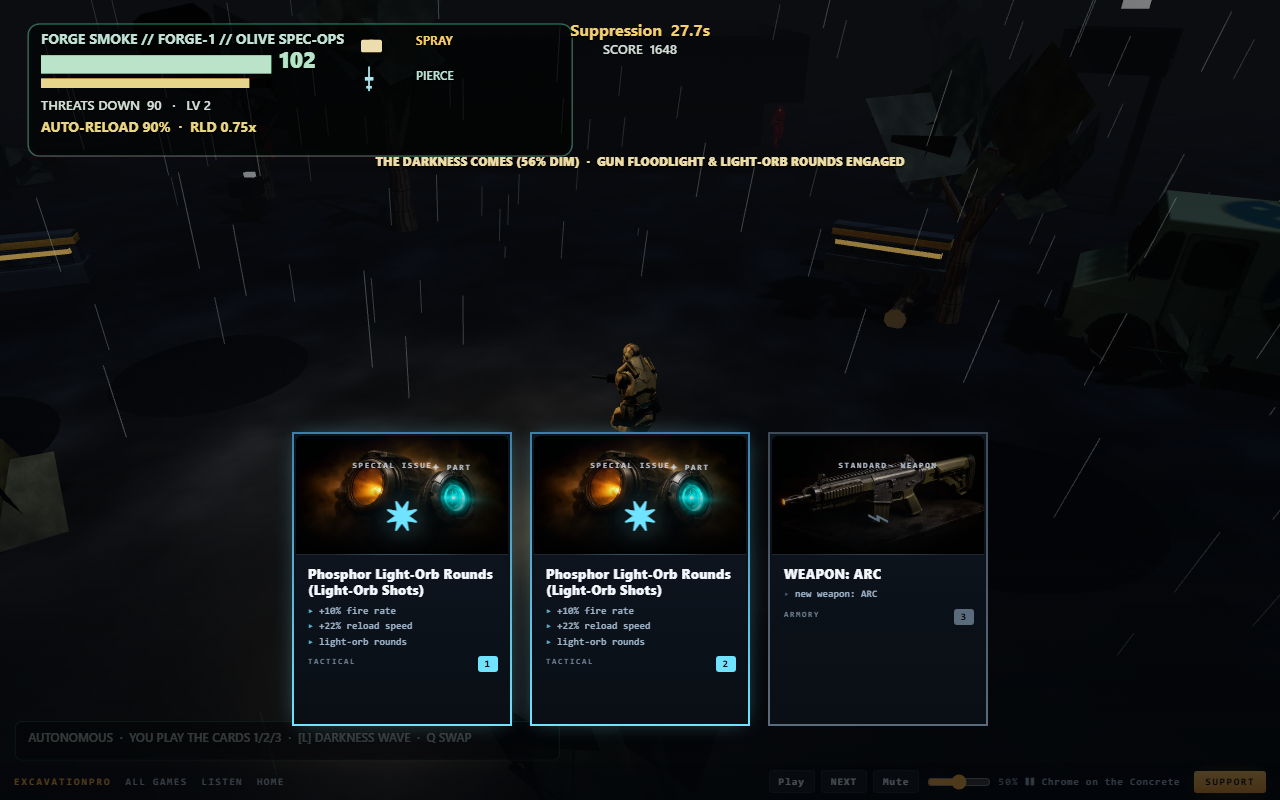
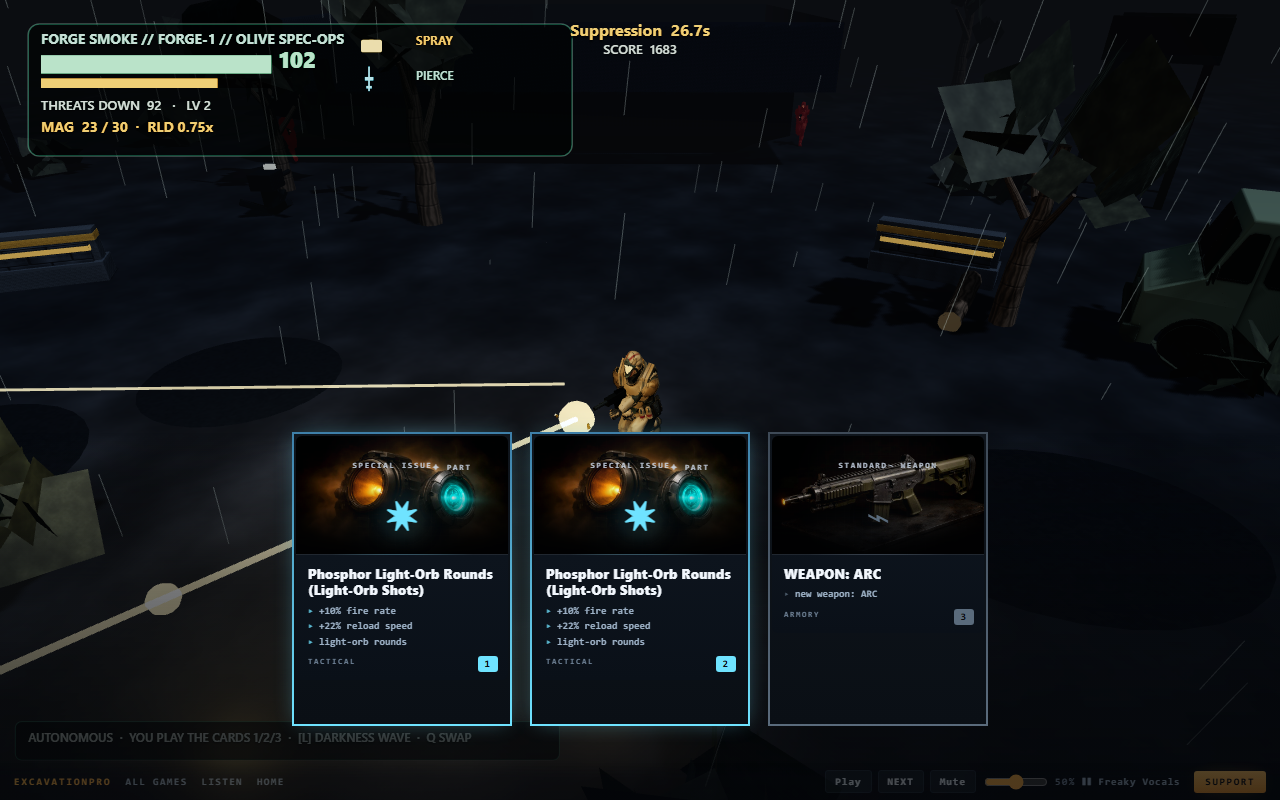
MOV-02: enemy slot fanning + 2.2m separation; shieldbearer owns the front slot (verified -0.04 rad, screenshot). Pilot aims body at target instead of strafe so facing is stable. Gate green.

diff --git a/src/enemies.js b/src/enemies.js
@@ -25,6 +25,18 @@ export const ENEMY_TYPES = {
   gunship: "gunship",
 };
 
+/** MOV-02 slot bias: 0 is the front slot (where the player's gun points), PI is the rear. */
+const SLOT_BIAS = {
+  shieldbearer: 0,
+  rifleman: (Math.PI * 2) / 3,
+  spotter: Math.PI / 2,
+  sapper: Math.PI,
+  mortar: -Math.PI / 2,
+  mech: 0.35,
+  drone: 0,
+  gunship: 0,
+};
+
 export class Enemy {
   constructor(type, position, rng, timeMinutes = 0) {
     this.type = type;
@@ -372,6 +384,8 @@ export class EnemyManager {
     };
     resolveObstacleCollision(position, 0.85, arenaColliders);
     const enemy = new Enemy(type, position, this.rng, timeMinutes);
+    enemy.slot = this.slotSeq || 0;
+    this.slotSeq = ((this.slotSeq || 0) + 1) % 8;
     this.enemies.push(enemy);
     // Create role-specific 3D model & skin so each enemy class reads at 32px+
     const mat = this.materials?.enemyMat;
@@ -397,7 +411,7 @@ export class EnemyManager {
   }
 
   /** Update all enemies. Returns array of actions. */
-  update(dt, playerPos, timeMinutes) {
+  update(dt, playerPos, timeMinutes, playerYaw = 0) {
     this.timeMinutes = timeMinutes;
     this.spawnTimer -= dt;
     const actions = [];
@@ -410,10 +424,71 @@ export class EnemyManager {
       // Update position with obstacle pathfinding / steering + solid collider pushback
       const isAerial = enemy.type === "drone" || enemy.type === "gunship";
       if (!isAerial) {
-        const vx = enemy.velocity.x;
-        const vz = enemy.velocity.z;
-        const spd = Math.hypot(vx, vz);
+        let vx = enemy.velocity.x;
+        let vz = enemy.velocity.z;
+        let spd = Math.hypot(vx, vz);
+        const dToPlayer = Math.hypot(enemy.position.x - playerPos.x, enemy.position.z - playerPos.z) || 1;
+        // a body that has reached its standoff can have zero velocity; the slot ring still needs to
+        // pull it round to its angle, so give the fan a floor speed to work with
+        const inRing = this.enemies.length > 1 && dToPlayer < 5;
+        if (inRing && spd < 0.4) {
+          spd = Math.max(0.8, Number(enemy.speed) || 1.2);
+          vx = 0;
+          vz = 0;
+        }
+        // the shield repositions at a trot: the front slot moves with the player's facing, and a
+        // shield that walks at 1.1 m/s can never catch a turning target
+        if (inRing && enemy.type === "shieldbearer") spd = Math.max(spd, 2.8);
+
+        // MOV-02: slot fanning + separation. The shield takes the front slot, riflemen the flanks,
+        // sappers the rear, so the crowd spreads around the player instead of stacking on one line.
+        if (spd > 0.01) {
+          if (enemy.type === "shieldbearer" && inRing) {
+            // the shield OWNS the front slot: it walks to the point in front of the player's gun
+            const ang = (Number(playerYaw) || 0);
+            const sx = playerPos.x + Math.sin(ang) * 1.9 - enemy.position.x;
+            const sz = playerPos.z + Math.cos(ang) * 1.9 - enemy.position.z;
+            const sl = Math.hypot(sx, sz) || 1;
+            vx = (sx / sl) * spd;
+            vz = (sz / sl) * spd;
+          } else if (inRing) {
+            const bias = SLOT_BIAS[enemy.type] ?? 0;
+            const spread = ((enemy.slot % 3) - 1) * 0.45;
+            const ang = (Number(playerYaw) || 0) + bias + spread;
+            const tX = playerPos.x + Math.sin(ang) * 2.3;
+            const tZ = playerPos.z + Math.cos(ang) * 2.3;
+            const sx = tX - enemy.position.x;
+            const sz = tZ - enemy.position.z;
+            const sl = Math.hypot(sx, sz) || 1;
+            vx = vx * 0.55 + (sx / sl) * spd * 0.45;
+            vz = vz * 0.55 + (sz / sl) * spd * 0.45;
+          }
+          // bodies inside 2.2 m push each other apart
+          let px = 0;
+          let pz = 0;
+          for (const other of this.enemies) {
+            if (other === enemy || other.hp <= 0) continue;
+            const ox = enemy.position.x - other.position.x;
+            const oz = enemy.position.z - other.position.z;
+            const od = Math.hypot(ox, oz);
+            if (od > 0.001 && od < 2.2) {
+              const w = (2.2 - od) / 2.2;
+              px += (ox / od) * w;
+              pz += (oz / od) * w;
+            }
+          }
+          if (px !== 0 || pz !== 0) {
+            const pl = Math.hypot(px, pz) || 1;
+            vx += (px / pl) * spd * 0.7;
+            vz += (pz / pl) * spd * 0.7;
+          }
+          const nl = Math.hypot(vx, vz) || 1;
+          vx = (vx / nl) * spd;
+          vz = (vz / nl) * spd;
+        }
+
         const colRadius = enemy.type === "mech" ? 1.05 : enemy.type === "shieldbearer" ? 0.75 : 0.55;
+        enemy._move = { x: vx, z: vz, spd };
         if (spd > 0.01) {
           const steered = steerAroundObstacles(enemy.position, vx / spd, vz / spd, colRadius, arenaColliders);
           enemy.position.x += steered.x * spd * dt;

diff --git a/src/main.js b/src/main.js
@@ -18,11 +18,11 @@ import { WeaponManager, CardSystem, Weapon, STYLE_VFX, GRENADE_STYLES } from "./
 import { createCardTray } from "./cardsui.js?v=20261030n";
 import { createSummary } from "./summaryui.js?v=20261030n";
 import { createBarks } from "./barks.js?v=20261030m";
-import { EnemyManager, ENEMY_TYPES } from "./enemies.js?v=20261030m";
+import { EnemyManager, ENEMY_TYPES } from "./enemies.js?v=20261030s";
 import { BeatDirector, ScoreSystem, ResultsScreen } from "./director.js?v=20261030n";
 import { bossHp } from "./balance.js?v=20261030n";
 import { loadSave, saveSave, updateBestScore, updateBestTime, getSettings, updateSettings, DEFAULT_SAVE, addProfileXp, grantLegacy, saveProfile } from "./save.js?v=20261030m";
-import { pilot } from "./autopilot.js?v=20261030q";
+import { pilot } from "./autopilot.js?v=20261030r";
 import { createManager, statsForLevel, applyStatsToRun, LIGHT_MODS, PERKS } from "./manager.js?v=20261030m";
 import { createStartMenu } from "./startmenu.js?v=20261030m";
 import { createGamepad } from "./gamepad.js?v=20261030m";
@@ -589,6 +589,22 @@ if (testMode) {
       };
     },
     getEnemyTypes: () => Object.keys(ENEMY_TYPES),
+    // MOV-02 evidence: drop an archetype at a world point and read the live ring around the player
+    spawnAt: (t, x, z) => {
+      const e = enemyManager.spawn(String(t), { x, z }, 0);
+      if (!e) return null;
+      e.position.x = x;
+      e.position.z = z;
+      if (e.mesh) e.mesh.position.set(x, 0.72, z);
+      return { type: e.type, slot: e.slot, hp: Math.round(e.hp) };
+    },
+    getSlots: () => enemyManager.enemies.filter((e) => e.hp > 0).map((e) => {
+      const dx = e.position.x - state.pos.x;
+      const dz = e.position.z - state.pos.z;
+      let a = Math.atan2(dx, dz) - state.yaw;
+      a = Math.atan2(Math.sin(a), Math.cos(a));
+      return { type: e.type, slot: e.slot, d: +Math.hypot(dx, dz).toFixed(2), angle: +a.toFixed(2) };
+    }),
     // MGR-07: spawn a real archetype and report the stat block the run will fight
     spawnType: (t) => {
       const e = enemyManager.spawn(String(t), state.pos, 0);
@@ -1903,6 +1919,11 @@ function update(dt, ctx) {
       state.pilotMode = c.mode;
       state.pilotDistance = c.distance;
       state.pilotThrottle = c.throttle ?? 1;
+      // aim the body at the target, not at the strafe: a fighter that spins to face its movement
+      // cannot hold a firing line, and it made the shield's front slot impossible to define
+      state.pilotAimYaw = Number.isFinite(c.targetX)
+        ? Math.atan2(c.targetX - state.pos.x, c.targetZ - state.pos.z)
+        : null;
       if (c.hasTarget && c.distance > 2 && c.mx === 0 && c.mz === 0) state.zeroMoveFrames = (state.zeroMoveFrames || 0) + 1;
     }
     if (mx !== 0 || mz !== 0) {
@@ -1928,7 +1949,7 @@ function update(dt, ctx) {
         state.pos.x *= TUNING.player.arenaRadius / radius;
         state.pos.z *= TUNING.player.arenaRadius / radius;
       }
-      let turn = Math.atan2(mx, mz) - state.yaw;
+      let turn = (Number.isFinite(state.pilotAimYaw) ? state.pilotAimYaw : Math.atan2(mx, mz)) - state.yaw;
       turn = Math.atan2(Math.sin(turn), Math.cos(turn));
       state.yaw += turn * Math.min(1, dt * TUNING.player.bodyYawSmoothing);
     }
@@ -2058,7 +2079,7 @@ function update(dt, ctx) {
     }
 
     // Update enemies
-    const enemyActions = enemyManager.update(dt, state.pos, beatDirector.runTime / 60);
+    const enemyActions = enemyManager.update(dt, state.pos, beatDirector.runTime / 60, state.yaw);
     for (const { enemy, action } of enemyActions) {
       if (action.type === "melee") {
         hurt(action.damage);

diff --git a/index.html b/index.html
@@ -255,6 +255,6 @@
 <script src="./assets/radio.js?v=1"></script>
 <!-- arcade ledger: the shared write path for the live board (mirrors /games/arcade-ledger.js) -->
 <script src="./assets/arcade-ledger.js?v=1"></script>
-<script type="module" src="./src/main.js?v=20261030z"></script>
+<script type="module" src="./src/main.js?v=20261030zh"></script>
 </body>
 </html>

diff --git a/src/autopilot.js b/src/autopilot.js
@@ -89,6 +89,8 @@ export function pilot(state, enemyManager, dt, profile = PILOT_PROFILE) {
     return out;
   }
   out.target = target;
+  out.targetX = target.mesh.position.x;
+  out.targetZ = target.mesh.position.z;
 
   const dx = target.mesh.position.x - state.pos.x;
   const dz = target.mesh.position.z - state.pos.z;
